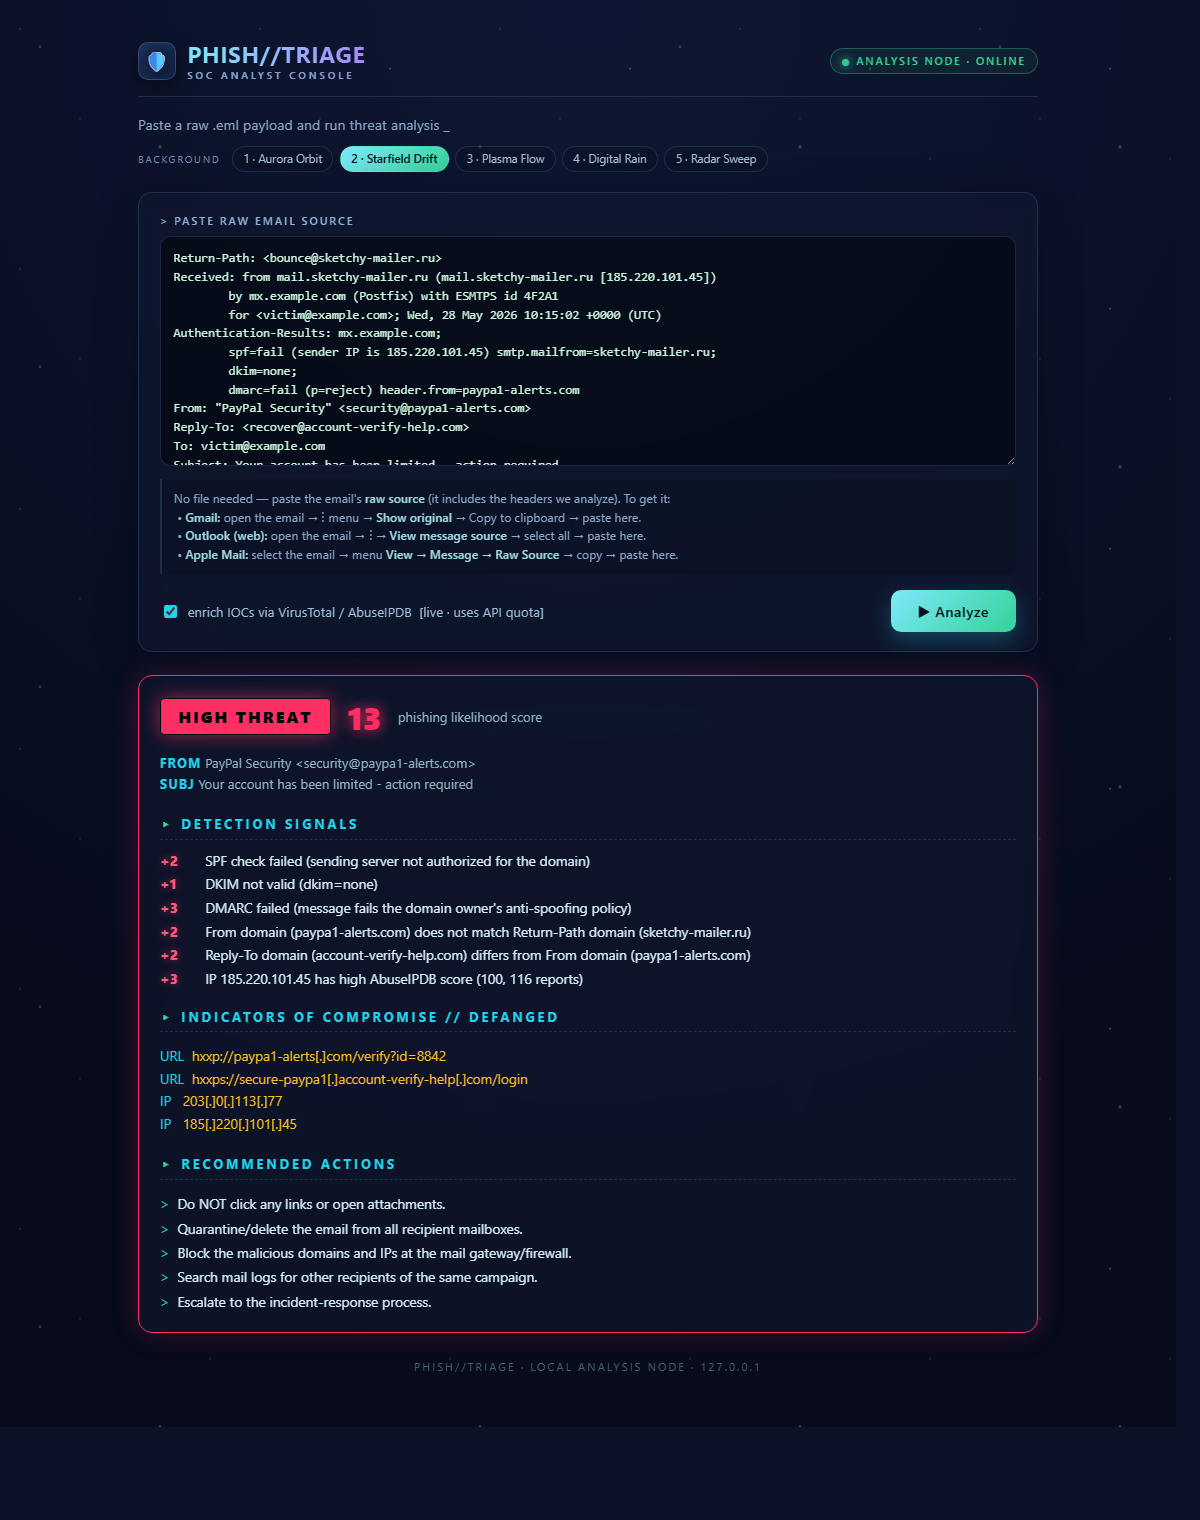
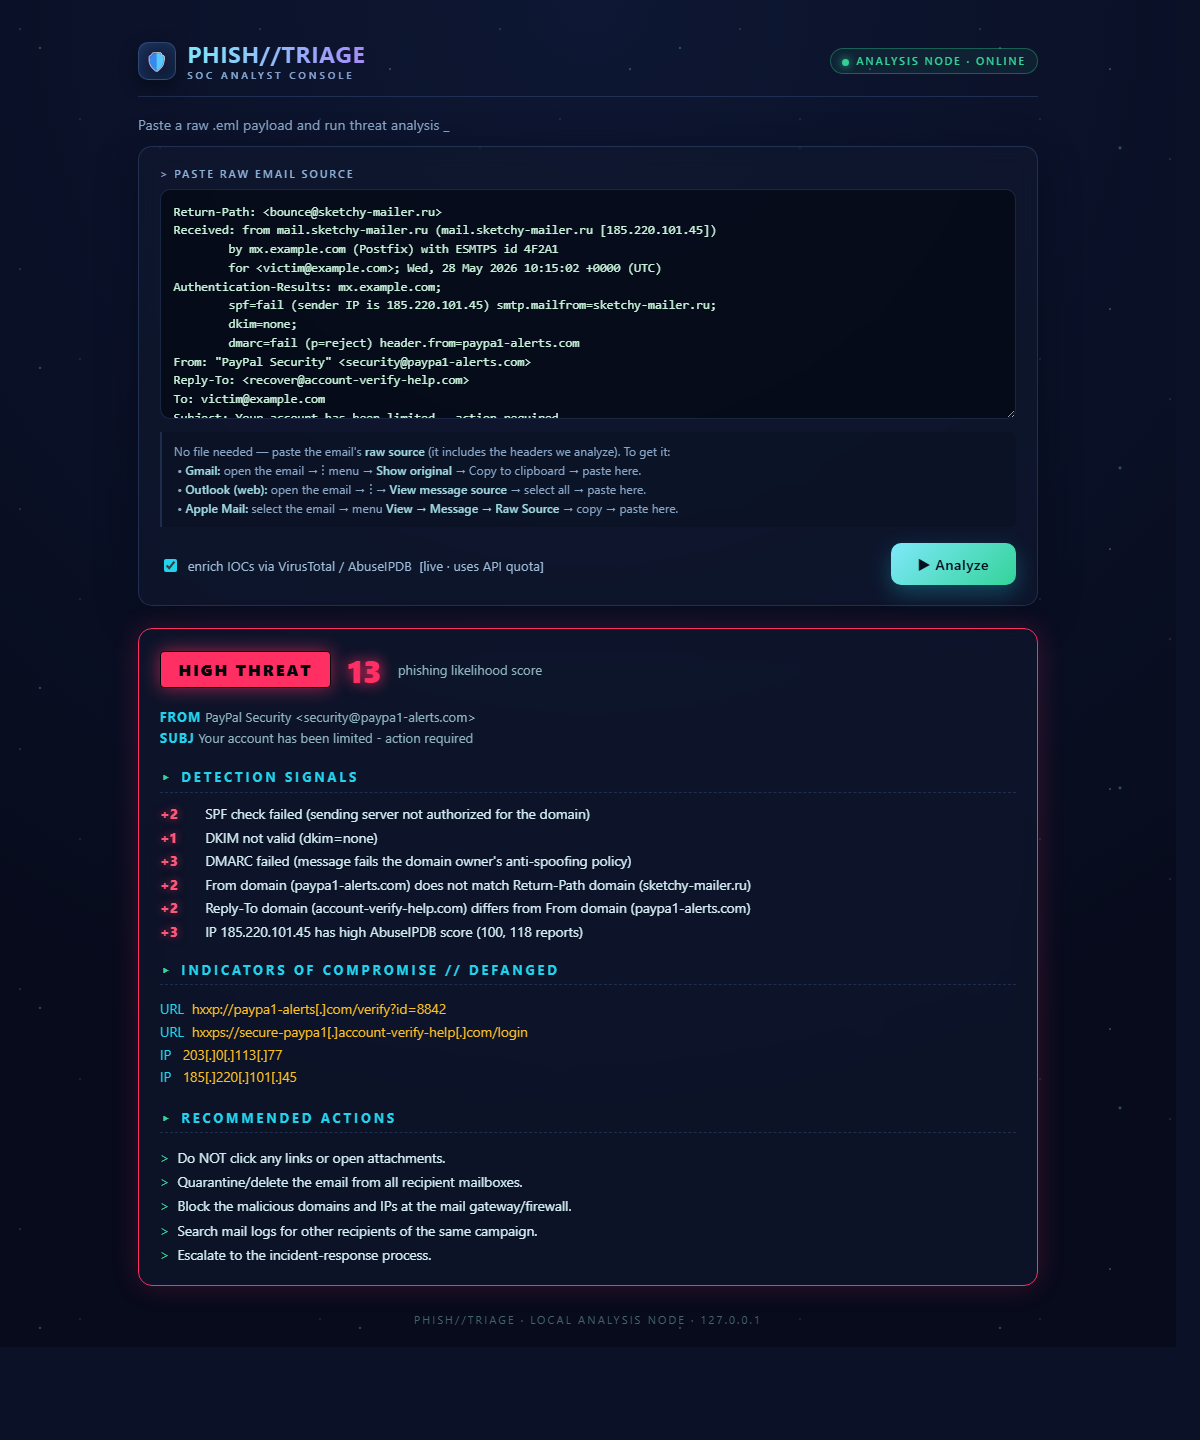
web UI: keep only the Starfield Drift background
- Remove the 5-option background switcher (bar, route param, and the other
  four styles); bake Starfield Drift directly into the page as the single look
- Simplify the index() view and template accordingly
- Update tests/test_app.py (switcher gone, Starfield baked in)
- Refresh docs/screenshot.png to match the simplified UI

diff --git a/app.py b/app.py
@@ -26,82 +26,6 @@ SAMPLE_TEXT = SAMPLE.read_text(encoding="utf-8") if SAMPLE.exists() else ""
 
 VERDICT_COLORS = {"High": "#ff2e63", "Medium": "#ffb302", "Low": "#39ff14"}
 
-# --- selectable background styles ---------------------------------------
-# Each entry only styles the page background (body + ::before/::after); the
-# rest of the UI CSS is shared. Swap with ?bg=<key>.
-BACKGROUNDS = {
-    "1": {"name": "Aurora Orbit", "css": """
-      body { background: linear-gradient(135deg,#0b1228,#121a36 50%,#0c1730); }
-      body::before { content:""; position:fixed; top:50%; left:50%; width:200vmax; height:200vmax;
-        pointer-events:none; z-index:0; filter: blur(48px);
-        background:
-          radial-gradient(circle at 32% 36%, rgba(34,211,238,.12), transparent 45%),
-          radial-gradient(circle at 70% 64%, rgba(167,139,250,.12), transparent 45%),
-          radial-gradient(circle at 56% 26%, rgba(52,211,153,.09), transparent 45%);
-        animation: bgA-orbit 70s linear infinite; }
-      @keyframes bgA-orbit { from{transform:translate(-50%,-50%) rotate(0)} to{transform:translate(-50%,-50%) rotate(360deg)} }
-      body::after { content:""; position:fixed; inset:0; pointer-events:none; z-index:0;
-        background-image: linear-gradient(rgba(130,180,255,.04) 1px,transparent 1px),
-                          linear-gradient(90deg,rgba(130,180,255,.04) 1px,transparent 1px);
-        background-size:46px 46px; animation: bgA-grid 7s linear infinite; }
-      @keyframes bgA-grid { to{background-position:46px 46px} }
-    """},
-    "2": {"name": "Starfield Drift", "css": """
-      body { background: radial-gradient(circle at 50% 0%, #0e1733, #070b1c 75%); }
-      body::before { content:""; position:fixed; inset:0; pointer-events:none; z-index:0;
-        background-image:
-          radial-gradient(1px 1px at 20px 30px, rgba(180,220,255,.5), transparent),
-          radial-gradient(1px 1px at 80px 120px, rgba(170,210,255,.4), transparent),
-          radial-gradient(1.5px 1.5px at 150px 70px, rgba(160,200,255,.5), transparent),
-          radial-gradient(1px 1px at 210px 160px, rgba(200,225,255,.4), transparent);
-        background-size:240px 240px; animation: bgB-far 90s linear infinite; }
-      @keyframes bgB-far { to{background-position:0 -2400px} }
-      body::after { content:""; position:fixed; inset:0; pointer-events:none; z-index:0;
-        background-image:
-          radial-gradient(1.5px 1.5px at 40px 50px, rgba(120,230,255,.55), transparent),
-          radial-gradient(2px 2px at 160px 150px, rgba(150,255,230,.45), transparent);
-        background-size:320px 320px; animation: bgB-near 50s linear infinite; }
-      @keyframes bgB-near { to{background-position:0 -3200px} }
-    """},
-    "3": {"name": "Plasma Flow", "css": """
-      body { background: linear-gradient(120deg,#0c1430,#16203f,#123247,#1a1740,#0c1430);
-        background-size:300% 300%; animation: bgC-plasma 22s ease-in-out infinite; }
-      @keyframes bgC-plasma { 0%{background-position:0% 50%} 50%{background-position:100% 50%} 100%{background-position:0% 50%} }
-      body::after { content:""; position:fixed; inset:0; pointer-events:none; z-index:0;
-        background-image: linear-gradient(rgba(130,180,255,.03) 1px,transparent 1px),
-                          linear-gradient(90deg,rgba(130,180,255,.03) 1px,transparent 1px);
-        background-size:46px 46px; }
-    """},
-    "4": {"name": "Digital Rain", "css": """
-      body { background:#04100b; }
-      body::before { content:""; position:fixed; left:0; right:0; top:-100%; height:200%;
-        pointer-events:none; z-index:0;
-        background-image: repeating-linear-gradient(0deg, transparent 0 120px,
-          rgba(0,255,150,.13) 120px 150px, transparent 150px 320px);
-        background-size:26px 100%; animation: bgD-a 4.5s linear infinite; }
-      @keyframes bgD-a { to{transform:translateY(50%)} }
-      body::after { content:""; position:fixed; left:0; right:0; top:-100%; height:200%;
-        pointer-events:none; z-index:0;
-        background-image: repeating-linear-gradient(0deg, transparent 0 90px,
-          rgba(0,230,170,.09) 90px 110px, transparent 110px 360px);
-        background-size:42px 100%; animation: bgD-b 7s linear infinite; }
-      @keyframes bgD-b { to{transform:translateY(50%)} }
-    """},
-    "5": {"name": "Radar Sweep", "css": """
-      body { background: radial-gradient(circle at 50% 50%, #0a1730, #060b1c 75%); }
-      body::before { content:""; position:fixed; inset:0; pointer-events:none; z-index:0;
-        background-image:
-          linear-gradient(rgba(80,160,255,.04) 1px, transparent 1px),
-          linear-gradient(90deg, rgba(80,160,255,.04) 1px, transparent 1px);
-        background-size:48px 48px; }
-      body::after { content:""; position:fixed; top:50%; left:50%; width:220vmax; height:220vmax;
-        transform: translate(-50%,-50%); pointer-events:none; z-index:0;
-        background: conic-gradient(from 0deg, rgba(34,211,238,.16), rgba(34,211,238,.03) 30deg, transparent 60deg 360deg);
-        animation: bgE-radar 9s linear infinite; }
-      @keyframes bgE-radar { to{transform:translate(-50%,-50%) rotate(360deg)} }
-    """},
-}
-
 PAGE = """
 <!doctype html>
 <html lang="en">
@@ -122,7 +46,23 @@ PAGE = """
     body {
       font-family: 'Inter','Segoe UI',system-ui,sans-serif;
       color: var(--ink); margin: 0; min-height: 100vh; padding: 2.6rem 1rem;
+      background: radial-gradient(circle at 50% 0%, #0e1733, #070b1c 75%);
     }
+    /* Starfield Drift: two parallax star layers slowly rising */
+    body::before { content:""; position:fixed; inset:0; pointer-events:none; z-index:0;
+      background-image:
+        radial-gradient(1px 1px at 20px 30px, rgba(180,220,255,.5), transparent),
+        radial-gradient(1px 1px at 80px 120px, rgba(170,210,255,.4), transparent),
+        radial-gradient(1.5px 1.5px at 150px 70px, rgba(160,200,255,.5), transparent),
+        radial-gradient(1px 1px at 210px 160px, rgba(200,225,255,.4), transparent);
+      background-size:240px 240px; animation: stars-far 90s linear infinite; }
+    @keyframes stars-far { to { background-position: 0 -2400px; } }
+    body::after { content:""; position:fixed; inset:0; pointer-events:none; z-index:0;
+      background-image:
+        radial-gradient(1.5px 1.5px at 40px 50px, rgba(120,230,255,.55), transparent),
+        radial-gradient(2px 2px at 160px 150px, rgba(150,255,230,.45), transparent);
+      background-size:320px 320px; animation: stars-near 50s linear infinite; }
+    @keyframes stars-near { to { background-position: 0 -3200px; } }
     @media (prefers-reduced-motion: reduce) {
       body, body::before, body::after { animation: none !important; }
     }
@@ -152,16 +92,6 @@ PAGE = """
     .sub { color: #8aa6c7; font-size: .85rem; letter-spacing: .3px; margin: 1.1rem 0 .8rem; }
     .blink { animation: blink 1.1s steps(2) infinite; color: var(--cyan); }
     @keyframes blink { 50% { opacity: 0; } }
-
-    /* background switcher */
-    .bgbar { display: flex; flex-wrap: wrap; align-items: center; gap: .4rem; margin: 0 0 1.3rem; }
-    .bglabel { font-size: .6rem; letter-spacing: 2px; color: #6f8bb0; margin-right: .3rem; }
-    .bgopt { font-size: .72rem; color: #9fbdd8; text-decoration: none; padding: .28rem .65rem;
-             border: 1px solid var(--line); border-radius: 999px; background: rgba(10,18,34,.5);
-             transition: all .15s; }
-    .bgopt:hover { border-color: var(--cyan); color: #dff6ff; }
-    .bgopt.active { background: linear-gradient(135deg,#7ee8fa,#34d399); color: #07101f;
-                    border-color: transparent; font-weight: 600; }
 
     .panel { background: var(--panel); border: 1px solid var(--line);
              border-radius: 14px; padding: 1.2rem 1.3rem; backdrop-filter: blur(10px);
@@ -212,7 +142,6 @@ PAGE = """
     .empty { color: #6fb9c7; font-size: .85rem; }
     .foot { margin-top: 1.6rem; text-align: center; color: #466; font-size: .7rem; letter-spacing: 2px; }
   </style>
-  <style>{{ bg_css|safe }}</style>
 </head>
 <body>
   <div class="wrap">
@@ -225,15 +154,7 @@ PAGE = """
     </div>
     <p class="sub">Paste a raw .eml payload and run threat analysis<span class="blink"> _</span></p>
 
-    <div class="bgbar">
-      <span class="bglabel">BACKGROUND</span>
-      {% for key, b in backgrounds.items() %}
-        <a class="bgopt {% if key == bg %}active{% endif %}" href="/?bg={{ key }}">{{ key }} · {{ b.name }}</a>
-      {% endfor %}
-    </div>
-
     <form method="post">
-      <input type="hidden" name="bg" value="{{ bg }}">
       <div class="panel">
         <label class="fld">&gt; paste raw email source</label>
         <textarea name="eml" spellcheck="false">{{ eml_text }}</textarea>
@@ -296,11 +217,6 @@ def index():
     eml_text = SAMPLE_TEXT
     enrich = True
 
-    # Background choice comes from either the query string (?bg=) or the form.
-    bg = request.values.get("bg", "2")
-    if bg not in BACKGROUNDS:
-        bg = "2"
-
     if request.method == "POST":
         eml_text = request.form.get("eml", "")
         enrich = request.form.get("enrich") is not None
@@ -319,7 +235,6 @@ def index():
     return render_template_string(
         PAGE, report=report, eml_text=eml_text, enrich=enrich,
         color=color, defang=defang,
-        backgrounds=BACKGROUNDS, bg=bg, bg_css=BACKGROUNDS[bg]["css"],
     )
 
 

diff --git a/tests/test_app.py b/tests/test_app.py
@@ -4,8 +4,6 @@ Uses Flask's built-in test client, so no real server or network is needed.
 All triage runs offline (enrichment disabled) for determinism.
 """
 
-import re
-
 from app import app, SAMPLE_TEXT
 
 
@@ -14,30 +12,16 @@ def _client():
     return app.test_client()
 
 
-def _active_bg(html):
-    m = re.search(r'bgopt active[^>]*>([^<]+)<', html)
-    return m.group(1).strip() if m else None
-
-
 def test_home_renders_form():
     html = _client().get("/").get_data(as_text=True)
     assert "PHISH//TRIAGE" in html
     assert "<textarea" in html
 
 
-def test_default_background_is_starfield():
+def test_uses_starfield_background_and_no_switcher():
     html = _client().get("/").get_data(as_text=True)
-    assert "Starfield" in _active_bg(html)
-
-
-def test_invalid_background_falls_back_to_default():
-    html = _client().get("/?bg=99").get_data(as_text=True)
-    assert "Starfield" in _active_bg(html)
-
-
-def test_background_can_be_selected():
-    html = _client().get("/?bg=4").get_data(as_text=True)
-    assert "Digital Rain" in _active_bg(html)
+    assert "stars-far" in html        # Starfield background is baked in
+    assert "bgbar" not in html        # the background switcher is gone
 
 
 def test_demo_mode_renders_sample_report():